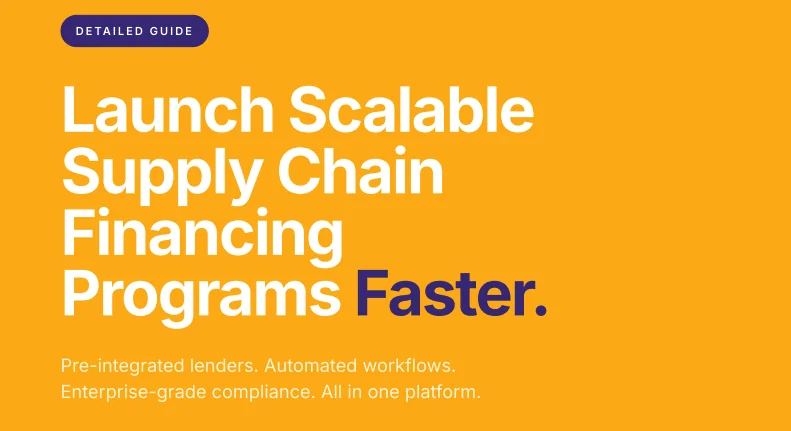
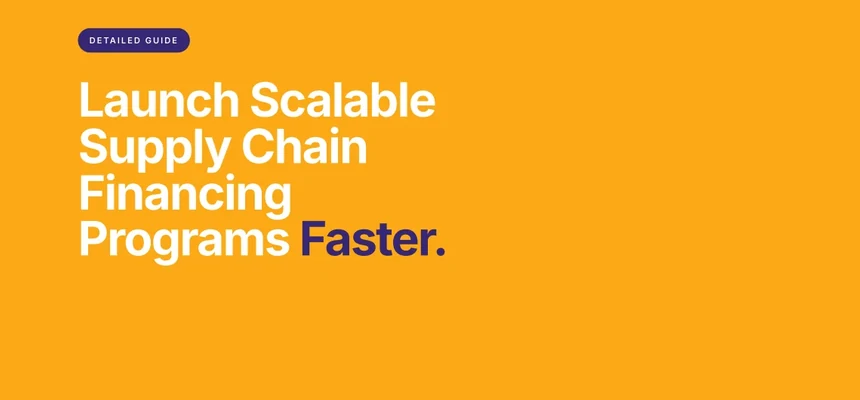
Point gated-product mega menu CTAs at download forms
The mega menu card CTA for Supplier Due Diligence, Supplier Portal and
Early Financing now links to its /download/<key> gated resource form
(labelled "Download") instead of the generic Get Started page. Other
products keep Get Started. Also refines the Early Financing cover crop.

diff --git a/src/components/layout/MegaMenu.jsx b/src/components/layout/MegaMenu.jsx
@@ -3,6 +3,7 @@
 import { useState, useEffect } from "react";
 import { assetUrl } from "@/lib/assetUrl";
 import { pageToPath } from "@/lib/routes";
+import { getProductGatedDownloadHref } from "@/lib/gatedResourceConfig";
 import { MEGA_PRODUCTS } from "./megaMenuData";
 
 export function MegaMenu({ onClose, onNavigate }) {
@@ -19,6 +20,13 @@ export function MegaMenu({ onClose, onNavigate }) {
 
   const active = items.find((i) => i.id === hovered) || items[0];
   const res = wpFeatured?.[active.id] ?? active.resource;
+
+  // Products with a gated download form (vdd, supplier, finance) point the
+  // card CTA at their /download/<key> form instead of generic Get Started.
+  const gatedDownloadHref = getProductGatedDownloadHref(active.id);
+  const ctaHref = gatedDownloadHref ?? pageToPath("getstarted");
+  const ctaNavTarget = gatedDownloadHref ? `download/${active.id}` : "getstarted";
+  const ctaLabel = gatedDownloadHref ? "Download →" : "Get Started →";
 
   const TAG = {
     "New":      { bg:"#EEF2FF", color:"#4338CA", border:"#C7D2FE", dot:"#818CF8" },
@@ -226,11 +234,11 @@ export function MegaMenu({ onClose, onNavigate }) {
 
                 {/* Compact CTA pill */}
                 <a
-                  href={pageToPath("getstarted")}
+                  href={ctaHref}
                   onClick={(e) => {
                     e.preventDefault();
                     onClose();
-                    if (typeof onNavigate === "function") onNavigate("getstarted");
+                    if (typeof onNavigate === "function") onNavigate(ctaNavTarget);
                   }}
                   style={{
                   display:"inline-flex", alignItems:"center", gap:5, flexShrink:0,
@@ -243,7 +251,7 @@ export function MegaMenu({ onClose, onNavigate }) {
                 }}
                   onMouseEnter={e=>{ e.currentTarget.style.transform="translateY(-1px)"; e.currentTarget.style.boxShadow=`0 6px 18px ${active.color}50`; }}
                   onMouseLeave={e=>{ e.currentTarget.style.transform=""; e.currentTarget.style.boxShadow=`0 3px 12px ${active.color}3a`; }}
-                >Get Started →</a>
+                >{ctaLabel}</a>
               </div>
 
             </div>

diff --git a/src/components/layout/megaMenuData.js b/src/components/layout/megaMenuData.js
@@ -58,7 +58,7 @@ export const MEGA_PRODUCTS = {
       color:"#E06B72",
       tag:"New",
       resource: PRODUCT_PAGE_RESOURCES.finance,
-      cover: { src: "mega-menu/early-financing-cover.webp", objectPosition: "center center" },
+      cover: { src: "mega-menu/early-financing-cover.webp", objectPosition: "left center" },
     },
     {
       id:"analytics",
